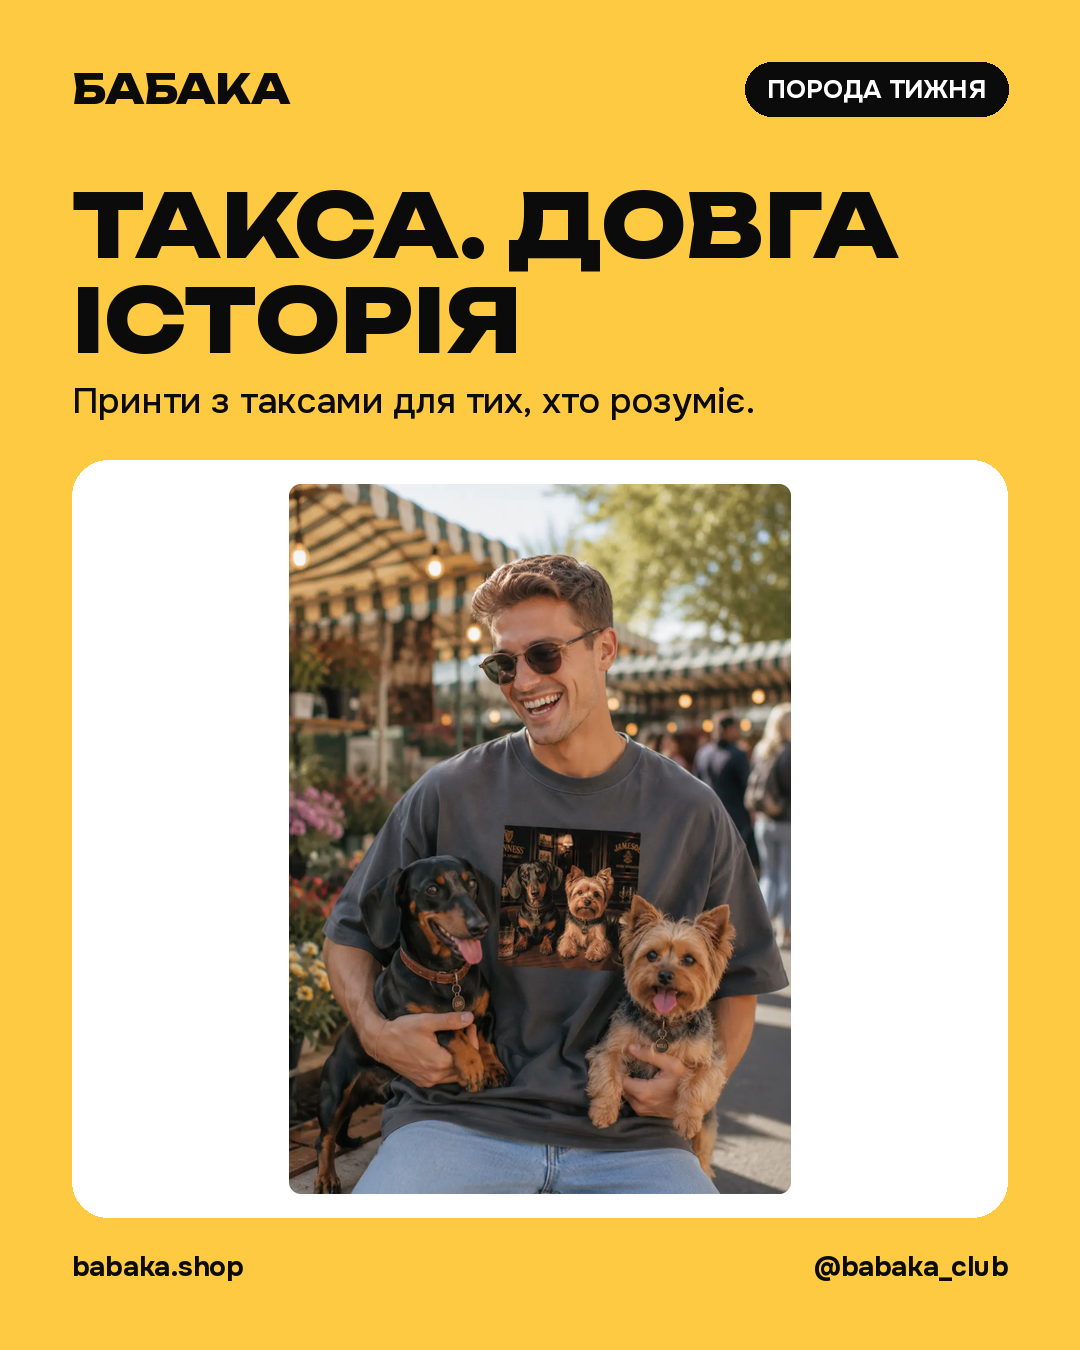
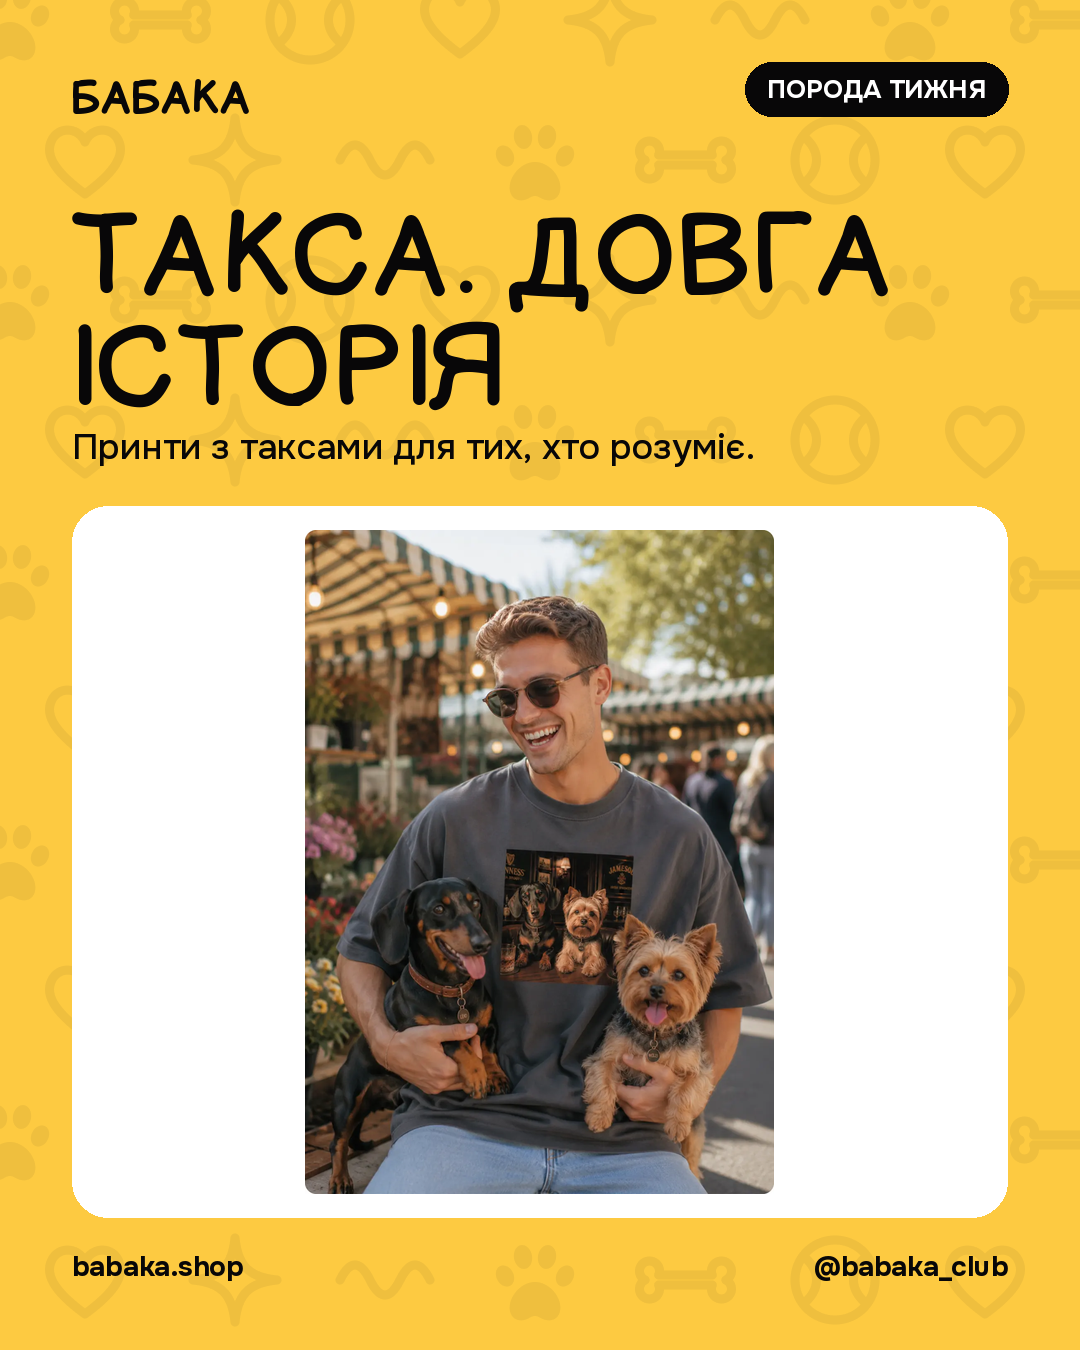
Instagram 19.10–13.11: пости в бренді — Lionel of Paris, палітра й патерн дудлів
- render.py: заголовки Lionel of Paris (TTF через LIONEL_TTF, не комітиться),
  потовщення обводкою як у Figma; Onest для тексту; Unbounded прибрано
- кольори бренду (#FDCA41, #DF2A35, #3772FF, #080708, білий), teal і сайтовий синій прибрано;
  на синьому текст лише білий, червоний не поруч із синім (FAQ, 08, 10)
- фон: колір + патерн дудлів із Figma Assets Pattern/Dark (img/pattern-dark.png)
- перемальовано posts/01–10; README: як рендерити і правила стилю

Claude-Session: https://claude.ai/code/session_01TnhVAoChCFhSYfQNg6KfnT

Changed region(s): [[0.0611, 0.1244, 0.9472, 0.9022], [0.0611, 0.0311, 0.275, 0.0933]]

diff --git a/docs/marketing/instagram-2026-10/render.py b/docs/marketing/instagram-2026-10/render.py
@@ -6,11 +6,23 @@ F = os.path.join(D, 'fonts'); I = os.path.join(D, 'img'); O = os.path.join(D, 'p
 os.makedirs(O, exist_ok=True)
 W, H, P = 1080, 1350, 72
 
-INK = (11, 11, 11); PAPER = (246, 246, 243); LINE = (228, 228, 223); RED = (223, 42, 53)
-YEL = (253, 202, 65); TEAL = (14, 107, 96); BLUE = (58, 90, 133); WHITE = (255, 255, 255); GREY = (107, 107, 101)
+# Палітра бренду (design.md): на червоному й синьому текст тільки білий, червоний ніколи поруч із синім.
+INK = (8, 7, 8); WHITE = (255, 255, 255); PAPER = WHITE; LINE = (231, 232, 230); RED = (223, 42, 53)
+YEL = (253, 202, 65); BLUE = (55, 114, 255); GREY = (92, 92, 86)
+
+# Заголовки — Lionel of Paris (шрифт бренду). TTF не комітимо (ліцензія): шлях у LIONEL_TTF.
+LIONEL = os.environ.get('LIONEL_TTF', os.path.join(F, 'LionelOfParis.ttf'))
 
 def font(kind, size):
-    return ImageFont.truetype(os.path.join(F, {'disp': 'Unbounded-800.ttf', 'b': 'Onest-700.ttf', 'm': 'Onest-500.ttf'}[kind]), size)
+    if kind == 'disp': return ImageFont.truetype(LIONEL, size)
+    return ImageFont.truetype(os.path.join(F, {'b': 'Onest-700.ttf', 'm': 'Onest-500.ttf'}[kind]), size)
+
+def sw(f):
+    # Lionel тонкий: потовщуємо обводкою того ж кольору, як у Figma (≈ size × 0.035).
+    return max(1, round(f.size * 0.035)) if f.path == LIONEL else 0
+
+def txt(d, xy, t, f, fill):
+    d.text(xy, t, font=f, fill=fill, stroke_width=sw(f), stroke_fill=fill)
 
 def wrap(d, text, f, maxw):
     lines = []
@@ -35,7 +47,7 @@ def text_block(d, xy, text, kind, size, color, maxw, lh=1.12, minsize=None, maxl
         if minsize and size > minsize: size -= 2; continue
         OVER.append((name, text, size)); break
     for l in lines:
-        d.text((x, y), l, font=f, fill=color); y += int(size * lh)
+        txt(d, (x, y), l, f, color); y += int(size * lh)
     return y, size
 
 def pill(d, xy, text, bg, fg, size=26, pad=(22, 12), anchor_right=False):
@@ -47,7 +59,7 @@ def pill(d, xy, text, bg, fg, size=26, pad=(22, 12), anchor_right=False):
     return x + tw + 2 * pad[0]
 
 def chrome(img, d, bg, fg, tag, tagbg, tagfg):
-    d.text((P, P - 8), 'БАБАКА', font=font('disp', 40), fill=fg)
+    txt(d, (P, P - 8), 'БАБАКА', font('disp', 44), fg)
     pill(d, (W - P, P - 10), tag, tagbg, tagfg, anchor_right=True)
     fb = font('b', 28)
     d.text((P, H - P - 30), 'babaka.shop', font=fb, fill=fg)
@@ -67,12 +79,20 @@ def paste_card(img, path, box, bg=WHITE, radius=36, pad=24, mode='fit'):
     mask = Image.new('L', card.size, 0); ImageDraw.Draw(mask).rounded_rectangle([0, 0, card.width - 1, card.height - 1], radius=radius, fill=255)
     img.paste(card, (x0, y0), mask)
 
-def new(bg):
-    img = Image.new('RGB', (W, H), bg); return img, ImageDraw.Draw(img)
+PATTERN = Image.open(os.path.join(I, 'pattern-dark.png')).convert('RGBA').crop((0, 0, W, H))
 
-def head(d, title, sub, fg, subfg, y=170, hsize=88, maxlines=3, ssize=36):
-    y, hs = text_block(d, (P, y), title.upper(), 'disp', hsize, fg, W - 2 * P, lh=1.08, minsize=64, maxlines=maxlines, name=title)
-    y += 18
+def new(bg):
+    # Фон бренду: колір + патерн дудлів (Figma Assets Pattern/Dark 2:20) ледь помітно.
+    img = Image.new('RGB', (W, H), bg)
+    dark = sum(bg) < 300 or bg in (RED, BLUE)
+    a = PATTERN.split()[3].point(lambda v: v * (0.07 if dark else 0.06))
+    tone = Image.new('RGB', (W, H), WHITE if dark else INK)
+    img.paste(tone, (0, 0), a)
+    return img, ImageDraw.Draw(img)
+
+def head(d, title, sub, fg, subfg, y=170, hsize=112, maxlines=3, ssize=36):
+    y, hs = text_block(d, (P, y), title.upper(), 'disp', hsize, fg, W - 2 * P, lh=1.0, minsize=72, maxlines=maxlines, name=title)
+    y += 30
     y, _ = text_block(d, (P, y), sub, 'm', ssize, subfg, W - 2 * P, lh=1.3, name=sub)
     return y, hs
 
@@ -125,13 +145,13 @@ posts.append(('03 Портрет з фото — Твій пес твій при
 def p04():
     img, d = new(INK); chrome(img, d, INK, WHITE, 'ЗАКУЛІССЯ', YEL, INK)
     y, _ = head(d, 'Друкуємо в Харкові', 'Від файлу принта до коробки на Новій пошті.', WHITE, (201, 201, 194))
-    f = font('disp', 200); d.text((P - 6, y + 30), '4–7', font=f, fill=YEL)
+    f = font('disp', 200); txt(d, (P - 6, y + 30), '4–7', f, YEL)
     f2 = font('b', 40); d.text((P, y + 30 + 230), 'робочих днів на кожне замовлення', font=f2, fill=WHITE)
     steps = ['Принт', 'Друк', 'Перевірка', 'Пакування']
     top = y + 30 + 320; bottom = H - P - 70; gap = 16; cw = (W - 2 * P - 3 * gap) // 4
     for i, s in enumerate(steps):
         x = P + i * (cw + gap); d.rounded_rectangle([x, top, x + cw, bottom], radius=28, fill=(30, 30, 28))
-        d.text((x + 24, top + 22), f'0{i+1}', font=font('disp', 44), fill=RED)
+        txt(d, (x + 24, top + 22), f'0{i+1}', font('disp', 48), RED)
         text_block(d, (x + 24, bottom - 64), s, 'b', 32, WHITE, cw - 40, minsize=24, maxlines=1, name=s)
     return img
 posts.append(('04 Закулісся — Друкуємо в Харкові', p04))
@@ -152,7 +172,7 @@ def p06():
     sd.rounded_rectangle([6, 6, 374, 164], radius=24, outline=RED + (255,), width=8)
     f = font('disp', 34);
     for i, t in enumerate(['ПЕРЕВІРЕНО', 'ПАШТЕТОМ']):
-        sd.text((190 - sd.textlength(t, font=f) / 2, 30 + i * 56), t, font=f, fill=RED + (255,))
+        sd.text((190 - sd.textlength(t, font=f) / 2, 30 + i * 56), t, font=f, fill=RED + (255,), stroke_width=sw(f), stroke_fill=RED + (255,))
     st = st.rotate(8, expand=True, resample=Image.BICUBIC); img.paste(st, (sx - 20, sy - 10), st)
     d.text((P + 56, H - P - 70 - 90), 'Боня: «Я тут модель».', font=font('b', 32), fill=INK)
     return img
@@ -163,18 +183,18 @@ def p07():
     img, d = new(PAPER); chrome(img, d, PAPER, INK, 'FAQ', INK, WHITE)
     y, _ = head(d, 'Питаєте — відповідаємо', 'Три питання, які нам ставлять найчастіше.', INK, GREY)
     items = [('ОПЛАТА', 'Гроші під захистом банку до підтвердження замовлення', RED),
-             ('ДОСТАВКА', 'Новою поштою по всій Україні', TEAL),
+             ('ДОСТАВКА', 'Новою поштою по всій Україні', YEL),
              ('ТЕРМІН', '4–7 робочих днів на виготовлення', INK)]
     top = y + 40; bottom = H - P - 70; gap = 18; ch = (bottom - top - 2 * gap) // 3
     for i, (k, v, c) in enumerate(items):
         cy = top + i * (ch + gap); d.rounded_rectangle([P, cy, W - P, cy + ch], radius=28, fill=WHITE, outline=LINE, width=3)
         d.rounded_rectangle([P, cy, P + 18, cy + ch], radius=9, fill=c)
-        d.text((P + 50, cy + 30), k, font=font('disp', 34), fill=c)
+        txt(d, (P + 50, cy + 26), k, font('disp', 40), INK)
         text_block(d, (P + 50, cy + 84), v, 'm', 36, INK, W - 2 * P - 90, lh=1.25, name=v)
     return img
 posts.append(('07 FAQ — Питаєте відповідаємо', p07))
 
-posts.append(('08 Порода тижня — Коргі', lambda: breed(TEAL, WHITE, (234, 243, 241), 'ПОРОДА ТИЖНЯ', YEL, INK, 'Коргі. Низько літає', 'Принти для власників найпухнастіших булочок.', 'polo-korhi.webp', card=(253, 235, 209), mode='fill')))
+posts.append(('08 Порода тижня — Коргі', lambda: breed(BLUE, WHITE, WHITE, 'ПОРОДА ТИЖНЯ', YEL, INK, 'Коргі. Низько літає', 'Принти для власників найпухнастіших булочок.', 'polo-korhi.webp', card=(253, 235, 209), mode='fill')))
 
 # 09 UGC
 def p09():
@@ -187,7 +207,7 @@ def p09():
     f = font('b', 30); t = 'тут міг би бути'; t2 = 'твій пес'
     mid = (bottom - top - 100) // 2
     pd.text((pw / 2 - pd.textlength(t, font=f) / 2, mid - 30), t, font=f, fill=GREY + (255,))
-    pd.text((pw / 2 - pd.textlength(t2, font=font('disp', 40)) / 2, mid + 14), t2, font=font('disp', 40), fill=INK + (255,))
+    f2 = font('disp', 48); pd.text((pw / 2 - pd.textlength(t2, font=f2) / 2, mid + 14), t2, font=f2, fill=INK + (255,), stroke_width=sw(f2), stroke_fill=INK + (255,))
     f3 = font('b', 32); t3 = '@babaka_club'
     pd.text((pw / 2 - pd.textlength(t3, font=f3) / 2, bottom - top - 88), t3, font=f3, fill=INK + (255,))
     pol = pol.rotate(-4, expand=True, resample=Image.BICUBIC)
@@ -198,7 +218,7 @@ posts.append(('09 UGC — Покажи свого пса', p09))
 # 10 UA
 def p10():
     img, d = new(BLUE); chrome(img, d, BLUE, WHITE, 'БАБАКА UA', YEL, INK)
-    y, _ = head(d, 'Бабака UA', 'Класики, яких ти ще не бачив: з собачими мордами. До Дня української писемності та мови.', YEL, WHITE)
+    y, _ = head(d, 'Бабака UA', 'Класики, яких ти ще не бачив: з собачими мордами. До Дня української писемності та мови.', WHITE, WHITE)
     top = y + 40; bottom = H - P - 60; gap = 20; cw = (W - 2 * P - gap) // 2
     paste_card(img, 'ua-skovoroda.webp', (P, top, P + cw, bottom), mode='fill', pad=0)
     paste_card(img, 'ua-shevchenko.webp', (P + cw + gap, top, W - P, bottom), mode='fill', pad=0)

diff --git a/docs/marketing/instagram-2026-10/README.md b/docs/marketing/instagram-2026-10/README.md
@@ -41,12 +41,17 @@
 
 ```bash
 pip install pillow
-# Шрифти (SIL OFL) з Google Fonts покласти в fonts/:
-#   Unbounded-800.ttf, Onest-700.ttf, Onest-500.ttf
-python3 render.py   # пише posts/01.png … 10.png
+# Onest (SIL OFL) з Google Fonts — у fonts/: Onest-700.ttf, Onest-500.ttf
+# Lionel of Paris — ліцензійний, у репозиторій не кладемо: шлях через змінну
+LIONEL_TTF=/шлях/до/Lionel_of_Paris.ttf python3 render.py   # пише posts/01.png … 10.png
 ```
 
-Стиль узято з сайту: Unbounded ExtraBold для заголовків, Onest для тексту; кольори ink `#0B0B0B`, paper `#F6F6F3`, red `#DF2A35`, yellow `#FDCA41`, teal `#0E6B60`, blue `#3A5A85`.
+Стиль — за бренд-системою (Figma «БАБАКА — Design system», `design.md` поверху babaka):
+заголовки **Lionel of Paris** (потовщені обводкою ≈ 3,5 % кегля, як у Figma), текст **Onest**;
+кольори бренду: жовтий `#FDCA41`, червоний `#DF2A35`, синій `#3772FF`, чорний `#080708`, білий.
+На червоному й синьому текст тільки білий; червоний ніколи поруч із синім. Фон — колір + патерн дудлів
+(`img/pattern-dark.png`, Figma Assets `Pattern/Dark`) на 6–7 %.
+У Lionel немає гліфів ₴, ↗ і ʼ — ціни з ₴ лишаються в Onest.
 
 ## Figma
 
